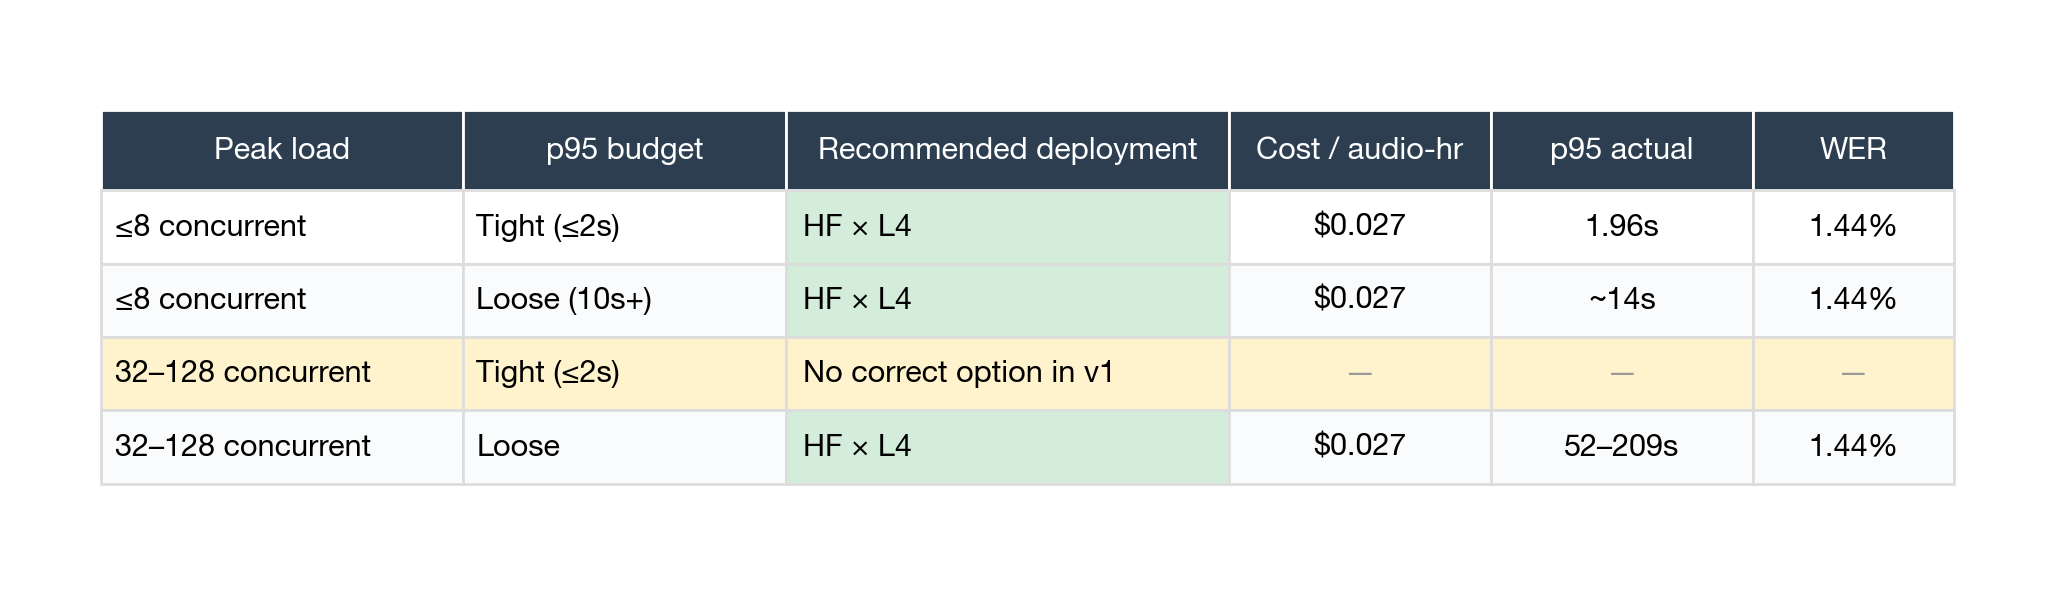
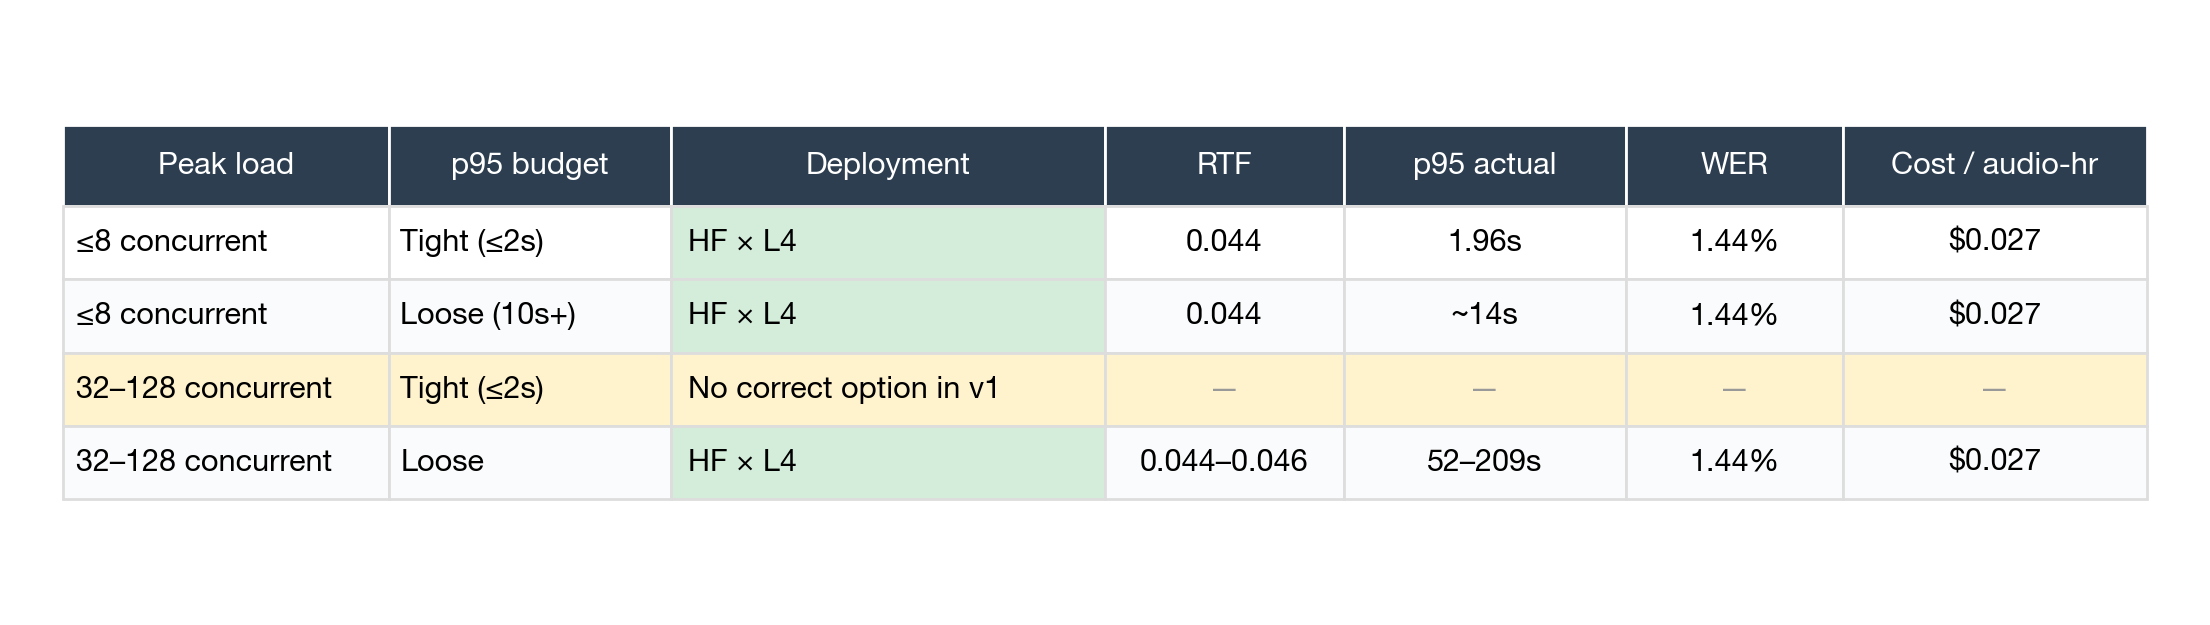
writeups: new contextualized opener + Table 01 gains RTF column
Opener:
- Added a "Why this is interesting" lede covering Whisper's ubiquity,
  OpenAI not hosting large-v3 (so you must self-host), the framework-
  choice problem, and the healthtech-startup operator motivation.
- "The 30-second answer" now leads with the spicy contrarian hook
  ("fastest framework at half a cent/audio-hour, WER 113%") before
  delivering the answer (HF × L4 wins at $0.027).
- Same restructure applied to writeups/v1_substack_draft.md (image
  placeholders retained).

Table 01:
- Added RTF column. New structure: 7 cols
    | Peak load | p95 budget | Deployment | RTF | p95 actual | WER | Cost / audio-hr |
- RTF was the only major graded metric missing from the decision
  table. Other graded metrics (p50/p99 latency, GPU util, peak GPU
  memory) are diagnostic rather than decision-relevant and live in
  tables 02-09 / the per-cell JSONs.
- PNG regenerated via scripts/render_v1_table_pngs.py.

Changed region(s): [[0.0311, 0.1818, 0.9966, 0.8182], [0.872, 0.4848, 0.9343, 0.5152], [0.7474, 0.4848, 0.8097, 0.5152]]

diff --git a/scripts/render_v1_table_pngs.py b/scripts/render_v1_table_pngs.py
@@ -103,43 +103,46 @@ def render_table(
 # Table 01: decision table by workload shape (4 rows)
 # ----------------------------------------------------------------------------
 def render_01_decision_table() -> None:
-    # 6 columns — one per metric — much easier to scan than the original
-    # 3-col format that crammed deployment + cost + p95 + WER into a single cell.
+    # 7 columns — one per decision-relevant metric we graded.
+    # Excluded: p50/p99 latency (p95 is the operational summary), GPU util
+    # (diagnostic), peak GPU memory (captured via OOM walls in tables 02–09).
     gotcha_row = 2  # "no correct option in v1"
     render_table(
         filename="01_decision_table_by_workload_shape.png",
         headers=[
             "Peak load",
             "p95 budget",
-            "Recommended deployment",
-            "Cost / audio-hr",
+            "Deployment",
+            "RTF",
             "p95 actual",
             "WER",
+            "Cost / audio-hr",
         ],
         rows=[
-            ["≤8 concurrent", "Tight (≤2s)", "HF × L4", "$0.027", "1.96s", "1.44%"],
-            ["≤8 concurrent", "Loose (10s+)", "HF × L4", "$0.027", "~14s", "1.44%"],
-            ["32–128 concurrent", "Tight (≤2s)", "No correct option in v1", "—", "—", "—"],
-            ["32–128 concurrent", "Loose", "HF × L4", "$0.027", "52–209s", "1.44%"],
+            ["≤8 concurrent", "Tight (≤2s)", "HF × L4", "0.044", "1.96s", "1.44%", "$0.027"],
+            ["≤8 concurrent", "Loose (10s+)", "HF × L4", "0.044", "~14s", "1.44%", "$0.027"],
+            ["32–128 concurrent", "Tight (≤2s)", "No correct option in v1", "—", "—", "—", "—"],
+            ["32–128 concurrent", "Loose", "HF × L4", "0.044–0.046", "52–209s", "1.44%", "$0.027"],
         ],
-        fig_size=(13, 3.6),
-        col_widths=[0.18, 0.16, 0.22, 0.13, 0.13, 0.10],
+        fig_size=(14, 3.8),
+        col_widths=[0.15, 0.13, 0.20, 0.11, 0.13, 0.10, 0.14],
         cell_highlights={
             # green for winner deployments
             (0, 2): WINNER_BG,
             (1, 2): WINNER_BG,
             (3, 2): WINNER_BG,
-            # amber for the empty-quadrant row across all data cells
+            # amber for the empty-quadrant row across all 7 cells
             (gotcha_row, 0): GOTCHA_BG,
             (gotcha_row, 1): GOTCHA_BG,
             (gotcha_row, 2): GOTCHA_BG,
             (gotcha_row, 3): GOTCHA_BG,
             (gotcha_row, 4): GOTCHA_BG,
             (gotcha_row, 5): GOTCHA_BG,
+            (gotcha_row, 6): GOTCHA_BG,
         },
         cell_bold={
             (0, 2), (1, 2), (3, 2),
-            (gotcha_row, 2),  # "No correct option in v1" bolded
+            (gotcha_row, 2),  # "No correct option in v1"
         },
         text_cols={0, 1, 2},
         row_scale=2.2,

diff --git a/writeups/v1.md b/writeups/v1.md
@@ -1,22 +1,30 @@
 # Choosing a Whisper serving framework: a 30-cell decision matrix
 
+## Why this is interesting
+
+Whisper-large-v3 has quietly become the default open-source speech-to-text model — if you've used a meeting tool, voice agent, or transcription product in the last two years, there's a good chance Whisper is somewhere in the stack. OpenAI doesn't host large-v3 directly (their hosted Whisper API runs an older variant), so anyone who wants the latest model self-hosts. That means picking a serving framework.
+
+I needed to pick one. I run ML infrastructure at a healthtech startup; we transcribe clinician sessions into a structured system of record. Three things matter simultaneously: WER (a transcription error is a clinical-data error), cost (hours of audio per provider per day adds up fast), and operational simplicity. Every Whisper benchmark I could find took at most one of those seriously. So I built one that takes all three.
+
 ## The 30-second answer
 
-**The cheapest correct Whisper-large-v3 deployment in this benchmark: Hugging Face Transformers on a single NVIDIA L4 — $0.027/audio-hour, 1.44% WER, at any concurrency.** Latency degrades from p95 1.96s to 209s as offered load grows from 1 to 128 in-flight requests, but cost and quality stay flat. vLLM is faster on raw throughput; on Whisper specifically, its transcripts are unusable today (50-186% WER — see Finding 1).
+**What I found: the fastest framework hits 285× real-time at half a cent per audio-hour. Its Word Error Rate at that cell: 113%.**
 
-In the matrix below, `c=N` is your workload's **offered load** — how many in-flight requests at peak — not a knob you tune. Identify your expected peak, find that row, read the latency and cost.
+WER over 100% means the framework outputs *more hallucinated words than the reference contained.* The fastest, cheapest cell in the entire matrix is unshippable. The cheapest *correct* deployment turned out to be Hugging Face Transformers on a single NVIDIA L4 — a $0.60/hr GPU you probably weren't planning to use — at **$0.027/audio-hour and 1.44% WER**, regardless of concurrency. Latency degrades from p95 1.96s to 209s as offered load grows from 1 to 128 in-flight requests, but cost and quality stay flat.
 
-| your peak concurrent load is... | and your p95 latency budget is... | best v1 deployment |
-|---|---|---|
-| Low (≤8 concurrent) | Tight (≤2s) | **HF × L4** — $0.027/audio-hr, p95 ~2s, WER 1.44% |
-| Low (≤8 concurrent) | Loose (10s+ OK) | **HF × L4** — $0.027/audio-hr, p95 ~14s, WER 1.44% (same config) |
-| High (32-128 concurrent) | Tight (≤2s) | **No correct option in v1.** HF queues (p95 85-327s), faster-whisper OOMs, vLLM hallucinates. See Finding 2; v1.1 with TensorRT-LLM may close this gap. |
-| High (32-128 concurrent) | Loose | **HF × L4** — $0.027/audio-hr, p95 52-209s, WER 1.44%. Throughput is flat (lock-serialized); latency absorbs the queue. |
+In the matrix below, `c=N` is your workload's **offered load** — how many in-flight requests at peak — not a knob you tune. Identify your expected peak, find the row, read the metrics.
+
+| Peak load | p95 budget | Deployment | RTF | p95 actual | WER | Cost / audio-hr |
+|---|---|---|---|---|---|---|
+| ≤8 concurrent | Tight (≤2s) | **HF × L4** | 0.044 | 1.96s | 1.44% | $0.027 |
+| ≤8 concurrent | Loose (10s+) | **HF × L4** | 0.044 | ~14s | 1.44% | $0.027 |
+| 32–128 concurrent | Tight (≤2s) | **No correct option in v1** | — | — | — | — |
+| 32–128 concurrent | Loose | **HF × L4** | 0.044–0.046 | 52–209s | 1.44% | $0.027 |
 
 Two things worth pointing out:
 
 - **HF × L4 cost is constant across concurrency at $0.027.** The lock-serialized baseline has flat throughput, so your bill doesn't change with load; only tail latency does. The framework + GPU decision is settled before you look at the latency column.
-- **High concurrency + tight latency is the empty quadrant.** No framework in v1 serves correct Whisper transcripts at c=32+ under a 2-second p95 budget. That's not a failure of the benchmark — it's the actual state of open-source Whisper serving in mid-2026.
+- **High concurrency + tight latency is the empty quadrant.** No framework in v1 serves correct Whisper transcripts at c=32+ under a 2-second p95 budget. HF queues (p95 85-327s), faster-whisper OOMs, vLLM hallucinates. That's not a failure of the benchmark — it's the actual state of open-source Whisper serving in mid-2026. v1.1 with TensorRT-LLM may close this gap.
 
 ---
 

diff --git a/writeups/v1_substack_draft.md b/writeups/v1_substack_draft.md
@@ -1,15 +1,21 @@
 # Choosing a Whisper serving framework: a 30-cell decision matrix
 
-**The cheapest correct Whisper-large-v3 deployment in this benchmark: Hugging Face Transformers on a single NVIDIA L4 — $0.027/audio-hour, 1.44% WER, at any concurrency.** Latency degrades from p95 1.96s to 209s as offered load grows from 1 to 128 in-flight requests, but cost and quality stay flat. vLLM is faster on raw throughput; on Whisper specifically, its transcripts are unusable today (50-186% WER — more on that below).
+Whisper-large-v3 has quietly become the default open-source speech-to-text model — if you've used a meeting tool, voice agent, or transcription product in the last two years, there's a good chance Whisper is somewhere in the stack. OpenAI doesn't host large-v3 directly (their hosted Whisper API runs an older variant), so anyone who wants the latest model self-hosts. That means picking a serving framework.
 
-In the matrix below, "concurrency" is your workload's **offered load** — how many in-flight requests at peak — not a knob you tune. Identify your expected peak, find the matching row, read the latency and cost.
+I needed to pick one. I run ML infrastructure at a healthtech startup; we transcribe clinician sessions into a structured system of record. Three things matter simultaneously: WER (a transcription error is a clinical-data error), cost (hours of audio per provider per day adds up fast), and operational simplicity. Every Whisper benchmark I could find took at most one of those seriously. So I built one that takes all three.
 
-`[IMAGE: 01_decision_table_by_workload_shape.png — "Decision table by workload shape (4 rows)"]`
+**What I found: the fastest framework hits 285× real-time at half a cent per audio-hour. Its Word Error Rate at that cell: 113%.**
+
+WER over 100% means the framework outputs *more hallucinated words than the reference contained.* The fastest, cheapest cell in the entire matrix is unshippable. The cheapest *correct* deployment turned out to be Hugging Face Transformers on a single NVIDIA L4 — a $0.60/hr GPU you probably weren't planning to use — at **$0.027/audio-hour and 1.44% WER**, regardless of concurrency. Latency degrades from p95 1.96s to 209s as offered load grows from 1 to 128 in-flight requests, but cost and quality stay flat.
+
+In the matrix below, "concurrency" is your workload's **offered load** — how many in-flight requests at peak — not a knob you tune. Identify your expected peak, find the matching row, read the metrics.
+
+`[IMAGE: 01_decision_table_by_workload_shape.png — "Decision table by workload shape — 7 columns: peak load / p95 budget / deployment / RTF / p95 actual / WER / cost"]`
 
 Two things worth pointing out:
 
 - **HF × L4 cost is constant across concurrency at $0.027.** The lock-serialized baseline has flat throughput, so your bill doesn't change with load; only tail latency does. The framework + GPU decision is settled before you look at the latency column.
-- **High concurrency + tight latency is the empty quadrant.** No framework in v1 serves correct Whisper transcripts at c=32+ under a 2-second p95 budget. That's not a failure of the benchmark — it's the actual state of open-source Whisper serving in mid-2026.
+- **High concurrency + tight latency is the empty quadrant.** No framework in v1 serves correct Whisper transcripts at c=32+ under a 2-second p95 budget. HF queues (p95 85-327s), faster-whisper OOMs, vLLM hallucinates. That's not a failure of the benchmark — it's the actual state of open-source Whisper serving in mid-2026.
 
 ## Why this benchmark exists
 
